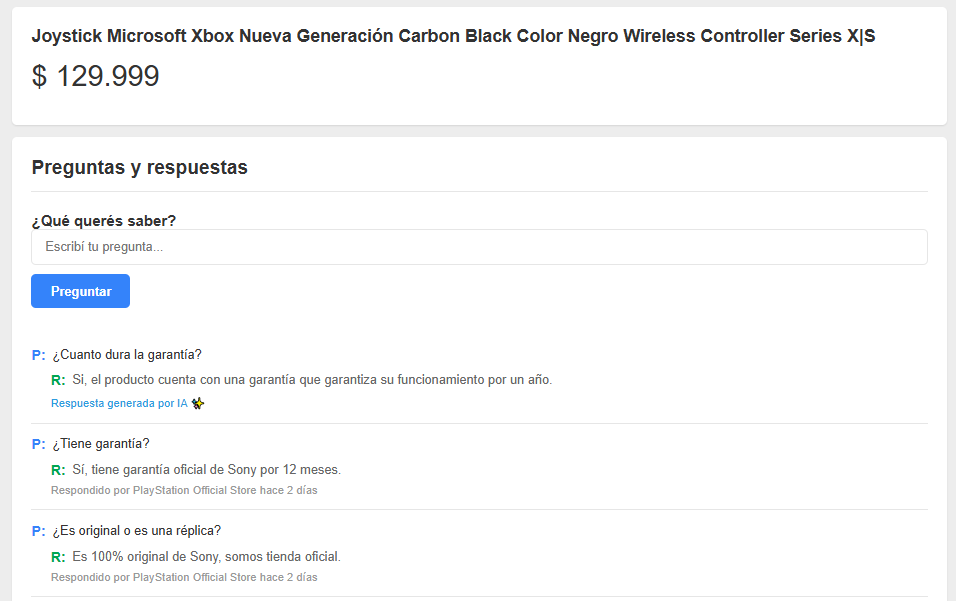
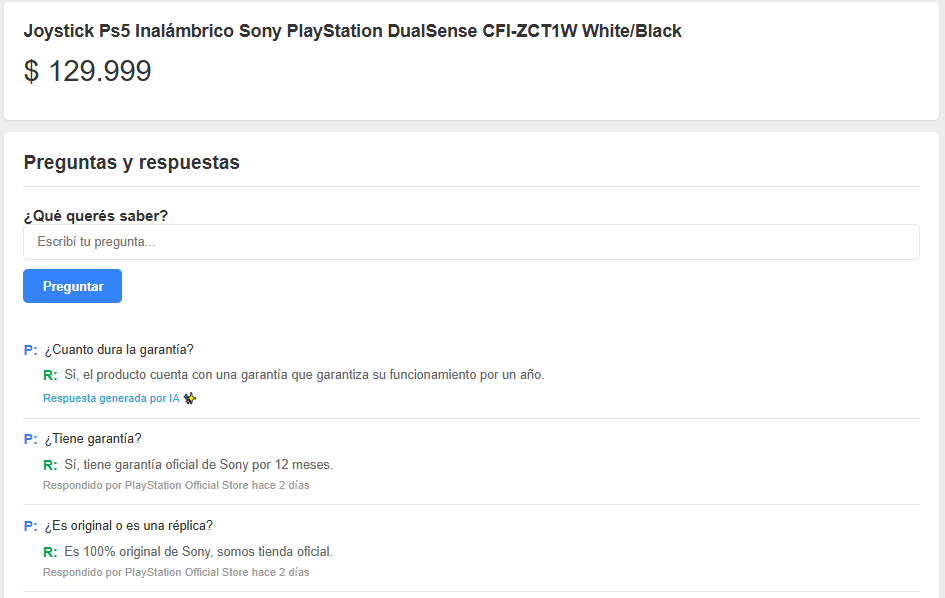
Minor fix
Actualizacion de imagen

diff --git a/templates/main.html b/templates/main.html
@@ -18,7 +18,7 @@
     
     <div class="container">
         <div class="product-header">
-            <h1 class="product-title">Joystick Microsoft Xbox Nueva Generación Carbon Black Color Negro Wireless Controller Series X|S</h1>
+            <h1 class="product-title">Joystick Ps5 Inalámbrico Sony PlayStation DualSense CFI-ZCT1W White/Black</h1>
             <div class="product-price">$ 129.999</div>
         </div>
         
